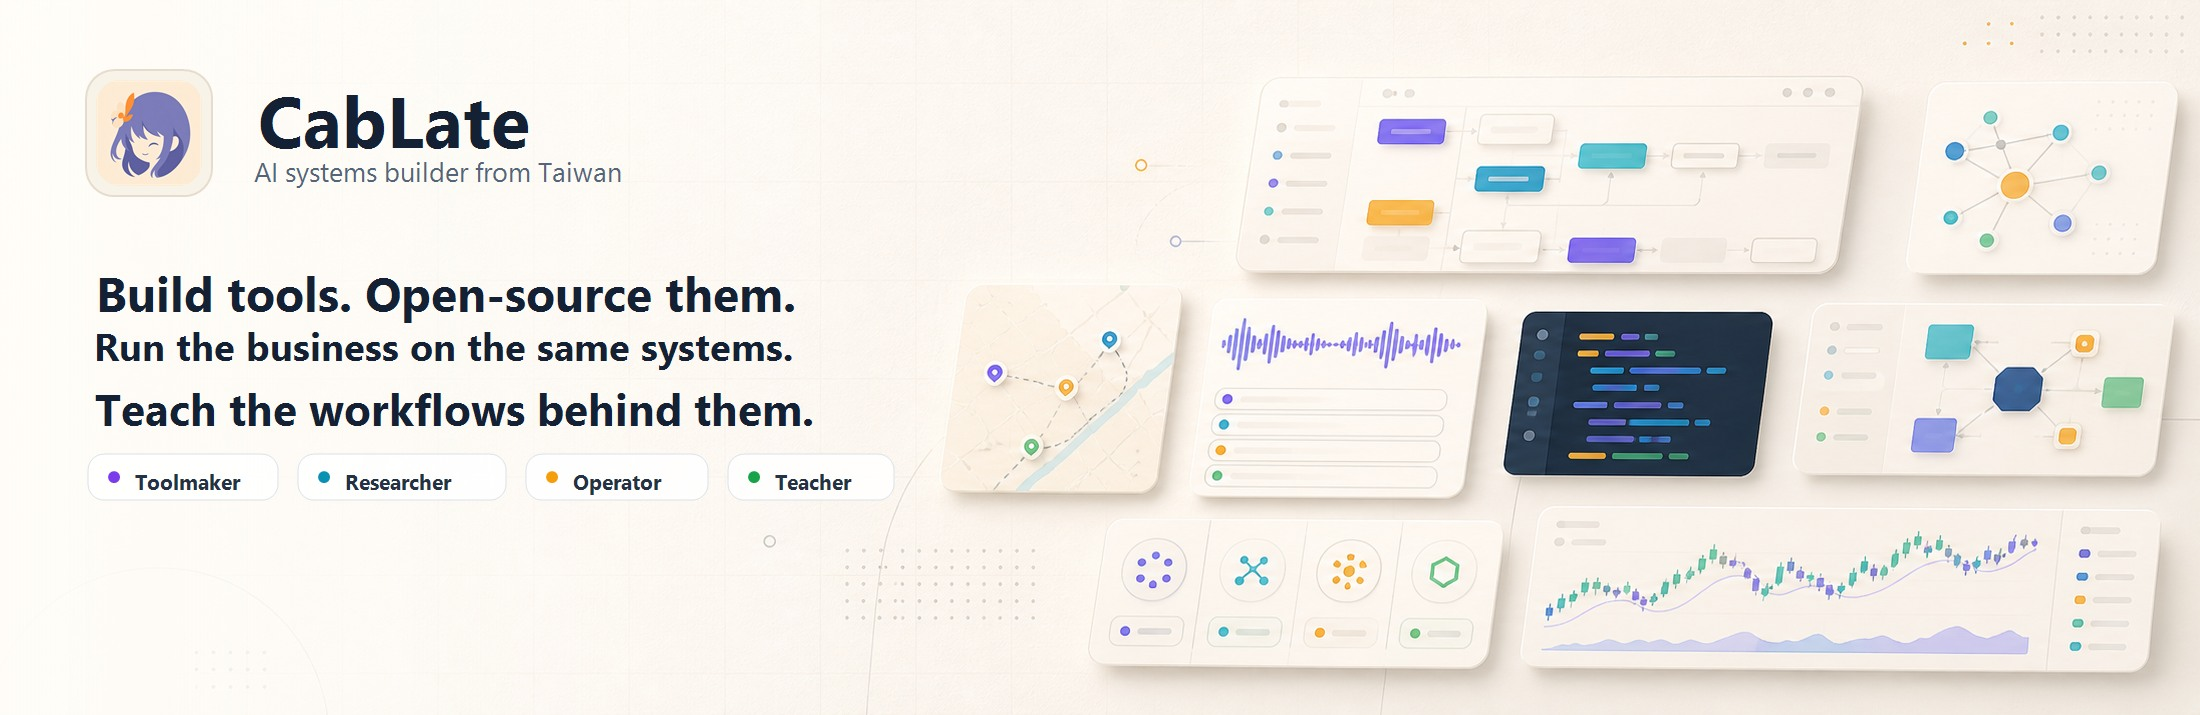
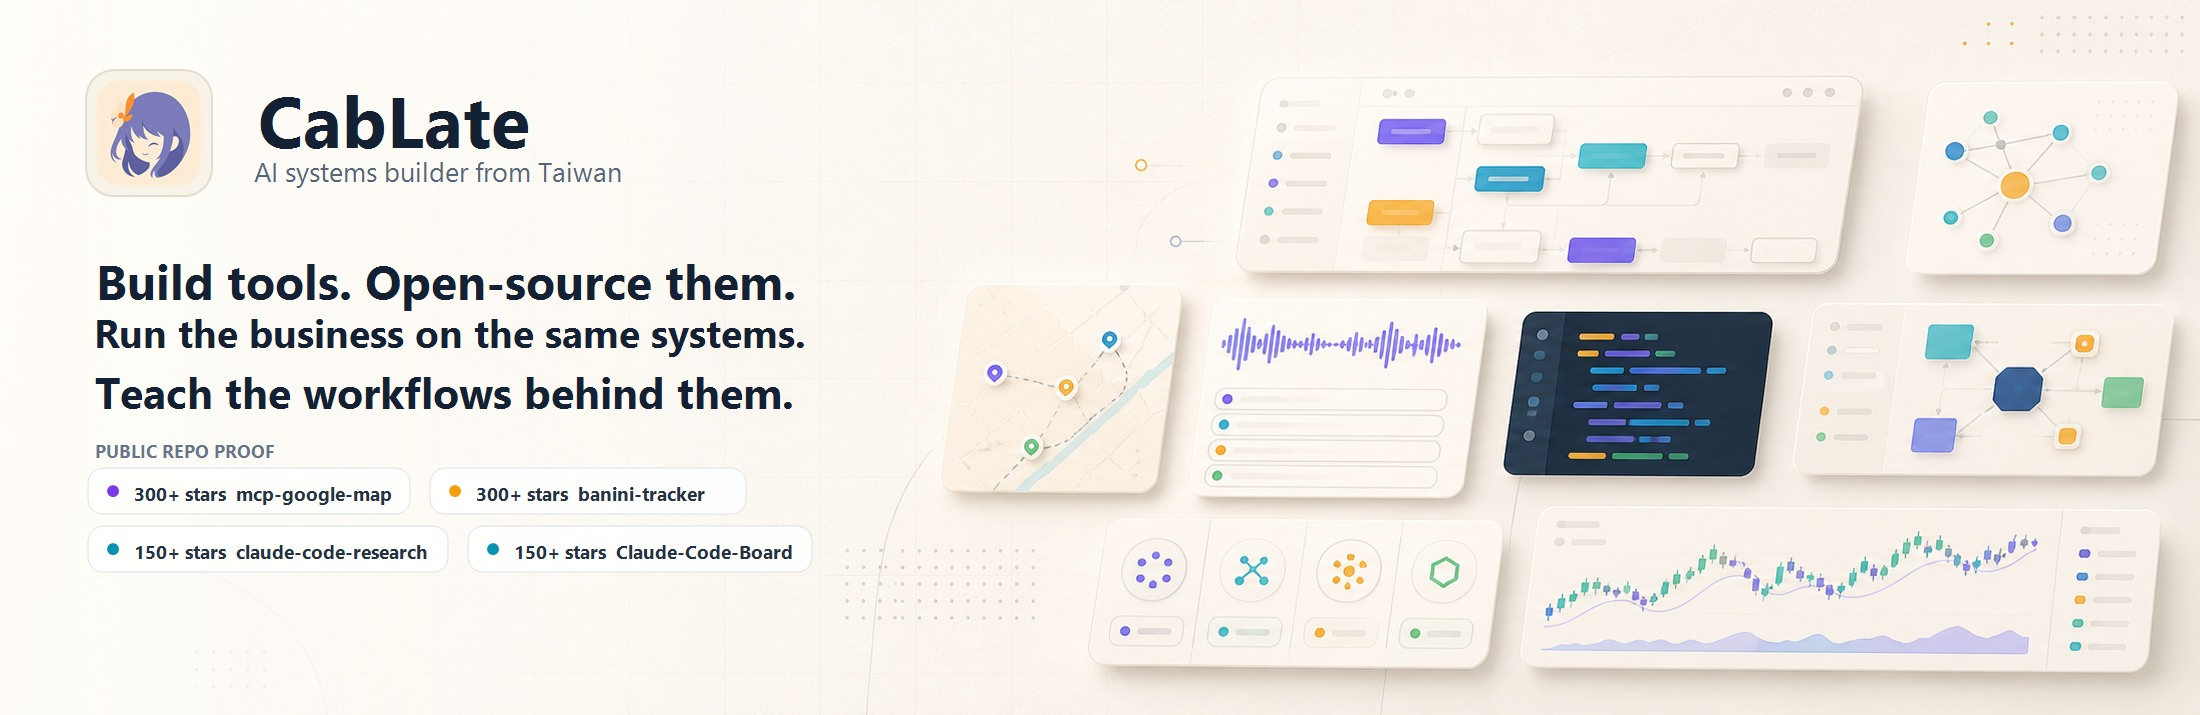
Highlight high-star projects in profile header

Changed region(s): [[0.0309, 0.3692, 0.4018, 0.7077], [0.2164, 0.7692, 0.3709, 0.8], [0.0618, 0.7692, 0.1855, 0.8]]

diff --git a/README.md b/README.md
@@ -4,7 +4,7 @@
   <a href="https://www.cablate.com"><img alt="Website: cablate.com" src="https://img.shields.io/badge/Website-cablate.com-243244?style=flat-square&logo=googlechrome&logoColor=white"></a>
   <a href="https://github.com/cablate/mcp-google-map"><img alt="mcp-google-map GitHub stars" src="https://img.shields.io/github/stars/cablate/mcp-google-map?style=flat-square&label=mcp-google-map&color=7c3aed"></a>
   <a href="https://github.com/cablate/banini-tracker"><img alt="banini-tracker GitHub stars" src="https://img.shields.io/github/stars/cablate/banini-tracker?style=flat-square&label=banini-tracker&color=f59e0b"></a>
-  <a href="https://www.youtube.com/channel/UCgwsSu8CGDt514CryVSDsYw"><img alt="YouTube: CabLate" src="https://img.shields.io/badge/YouTube-CabLate-c4302b?style=flat-square&logo=youtube&logoColor=white"></a>
+  <a href="https://github.com/cablate/Claude-Code-Board"><img alt="Claude-Code-Board GitHub stars" src="https://img.shields.io/github/stars/cablate/Claude-Code-Board?style=flat-square&label=Claude-Code-Board&color=0891b2"></a>
 </p>
 
 **CabLate** — 我打造 AI 基礎設施，開源它，然後用同一套東西經營自己的事業。<br>
